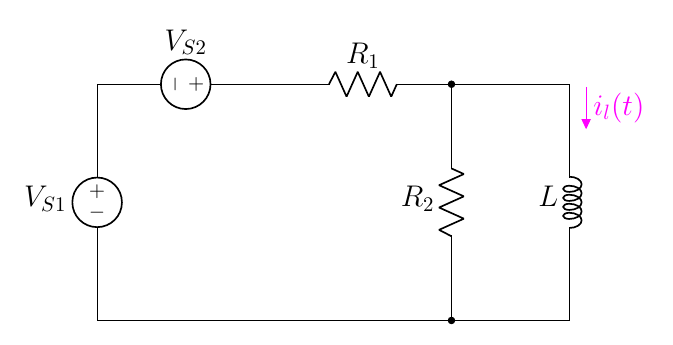
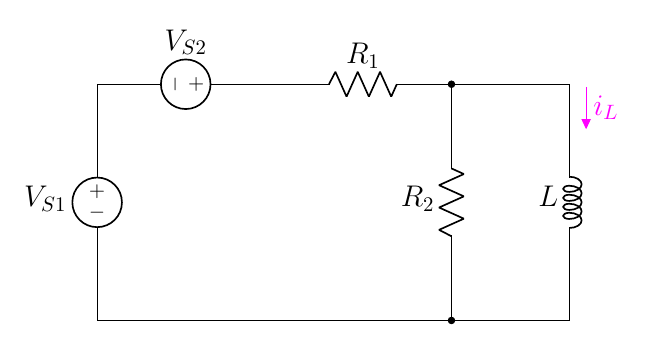
8.51

diff --git a/2.3 Driven RL/8.6 Driven RL Circuit/8.51(new).tex b/2.3 Driven RL/8.6 Driven RL Circuit/8.51(new).tex
@@ -26,7 +26,7 @@
         to[short] ++(2,0);
     %%% find %%%
     \draw[circuitikz/current arrow color=magenta](8,4)
-    to[open,f>^=$\color{magenta}{i_l(t)}$] ++(0,-2);
+    to[open,f>^=$\color{magenta}{i_L}$] ++(0,-2);
     % \draw[magenta](6,3)  
     %     to[open,v^=$v_L$] ++(0,-2);
 \end{circuitikz}
